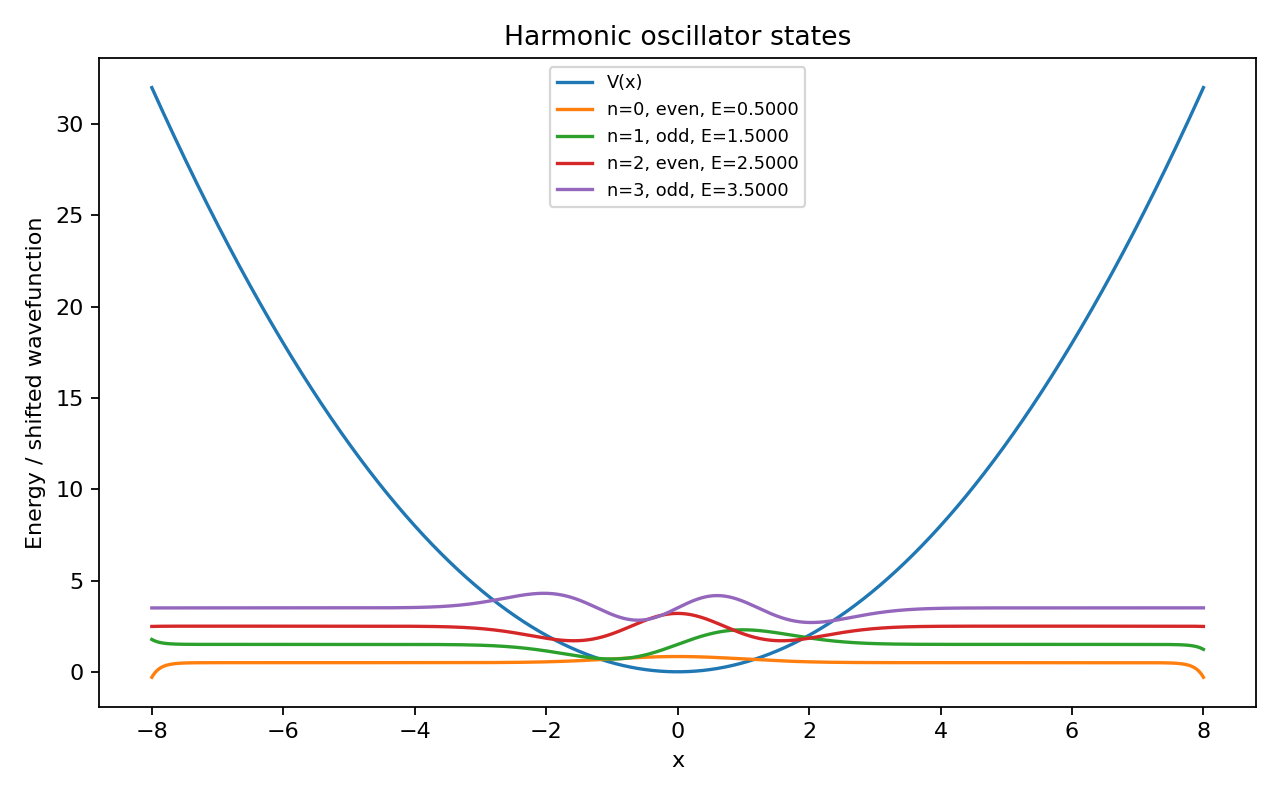
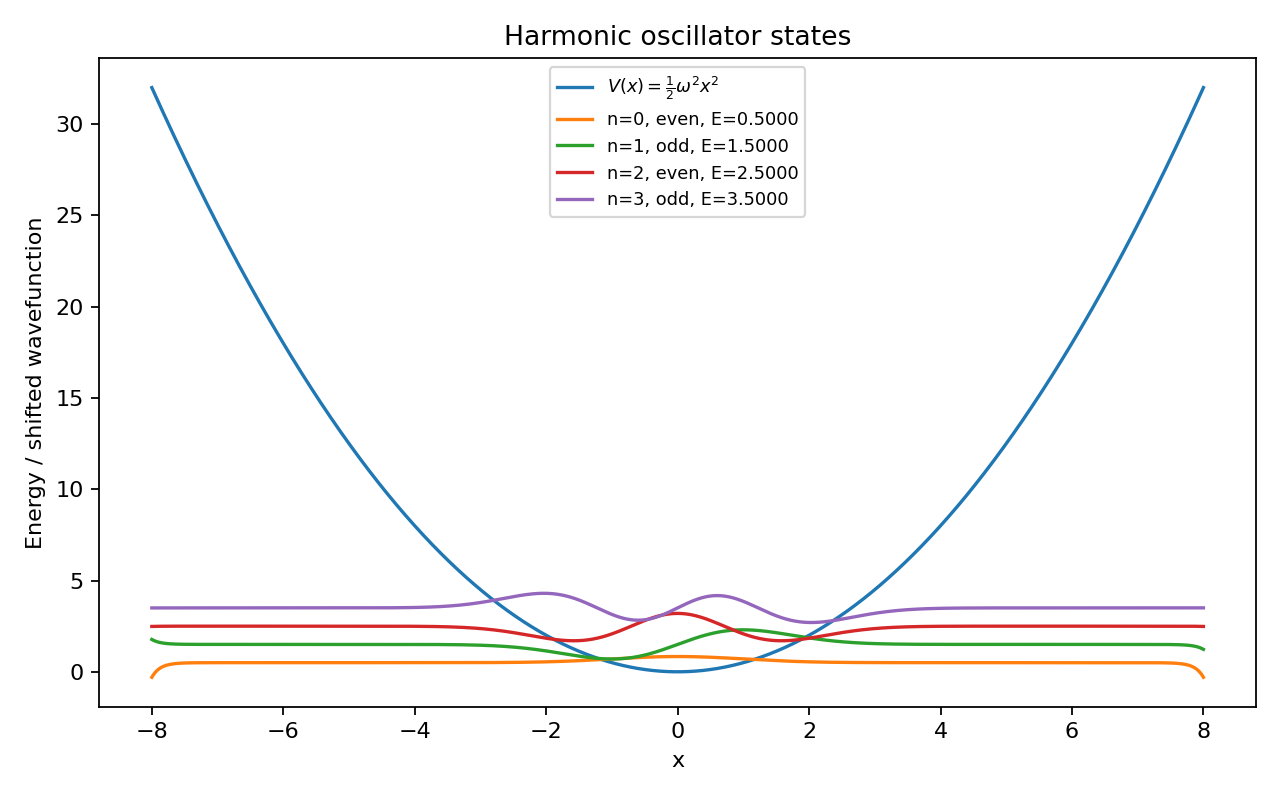
Harmonic oscillator debug 1

Changed region(s): [[0.4375, 0.0938, 0.625, 0.2812]]

diff --git a/src/experiments.py b/src/experiments.py
@@ -109,6 +109,84 @@ def plot_infinite_well_root_diagnostics(results_dir: Path, a: float = 1.0) -> No
         )
 
 
+
+def plot_harmonic_oscillator_root_diagnostics(
+    results_dir: Path,
+    omega: float = 1.0,
+    x_max: float = 8.0,
+) -> None:
+    """
+    Plot shooting/root-finding diagnostics for the first four harmonic-oscillator states.
+
+    Even and odd harmonic-oscillator states use different parity boundary conditions:
+    - even sector: global states n=0 and n=2
+    - odd sector: global states n=1 and n=3
+
+    The mismatch is sampled as M(E)=psi_E(x_max). The correct eigenvalues are
+    the energies for which this boundary mismatch crosses zero.
+    """
+    x_half = np.linspace(0.0, x_max, 1200)
+    V_half = harmonic_oscillator(x_half, omega=omega)
+
+    diagnostic_specs = [
+        {
+            "parity": "even",
+            "e_min": 0.1,
+            "e_max": 3.2,
+            "state_labels": ["state 0, even", "state 2, even"],
+            "path": results_dir / "2_harmonic_oscillator_root_finding_even.png",
+            "title": "Harmonic oscillator shooting roots, even states",
+            "mismatch_label": (
+                r"scaled mismatch: $M(E)/\max |M|$, "
+                r"$M(E)=\psi_E(x_{\max})$"
+            ),
+        },
+        {
+            "parity": "odd",
+            "e_min": 0.7,
+            "e_max": 4.3,
+            "state_labels": ["state 1, odd", "state 3, odd"],
+            "path": results_dir / "2_harmonic_oscillator_root_finding_odd.png",
+            "title": "Harmonic oscillator shooting roots, odd states",
+            "mismatch_label": (
+                r"scaled mismatch: $M(E)/\max |M|$, "
+                r"$M(E)=\psi_E(x_{\max})$"
+            ),
+        },
+    ]
+
+    for spec in diagnostic_specs:
+        energies_scan, mismatches_scan = sample_boundary_mismatch(
+            x_half,
+            V_half,
+            parity=spec["parity"],
+            e_min=spec["e_min"],
+            e_max=spec["e_max"],
+            n_scan=1800,
+        )
+        brackets = find_brackets(
+            x_half,
+            V_half,
+            parity=spec["parity"],
+            e_min=spec["e_min"],
+            e_max=spec["e_max"],
+            n_scan=1800,
+        )
+        histories = [
+            bisection_history(x_half, V_half, spec["parity"], bracket, max_iter=30)
+            for bracket in brackets[: len(spec["state_labels"])]
+        ]
+
+        plot_root_finding_diagnostic(
+            energies_scan,
+            mismatches_scan,
+            histories,
+            spec["path"],
+            spec["title"],
+            history_labels=spec["state_labels"],
+            mismatch_label=spec["mismatch_label"],
+        )
+
 def run_square_well(results_dir: Path) -> None:
     """
     Run the infinite square well benchmark case.
@@ -248,6 +326,7 @@ def run_harmonic_oscillator(results_dir: Path) -> None:
         states,
         results_dir / "2_harmonic_oscillator_states.png",
         "Harmonic oscillator states",
+        potential_label=r"$V(x)=\frac{1}{2}\omega^2x^2$",
     )
     plot_probability_densities(
         states,
@@ -259,6 +338,12 @@ def run_harmonic_oscillator(results_dir: Path) -> None:
         exact,
         results_dir / "2_harmonic_oscillator_energy_comparison.png",
         "Harmonic oscillator energies",
+        exact_label=r"exact: $E_n=\omega\left(n+\frac{1}{2}\right)$",
+    )
+    plot_harmonic_oscillator_root_diagnostics(
+        results_dir,
+        omega=omega,
+        x_max=x_max,
     )
 
     conv_h = convergence_vs_grid(